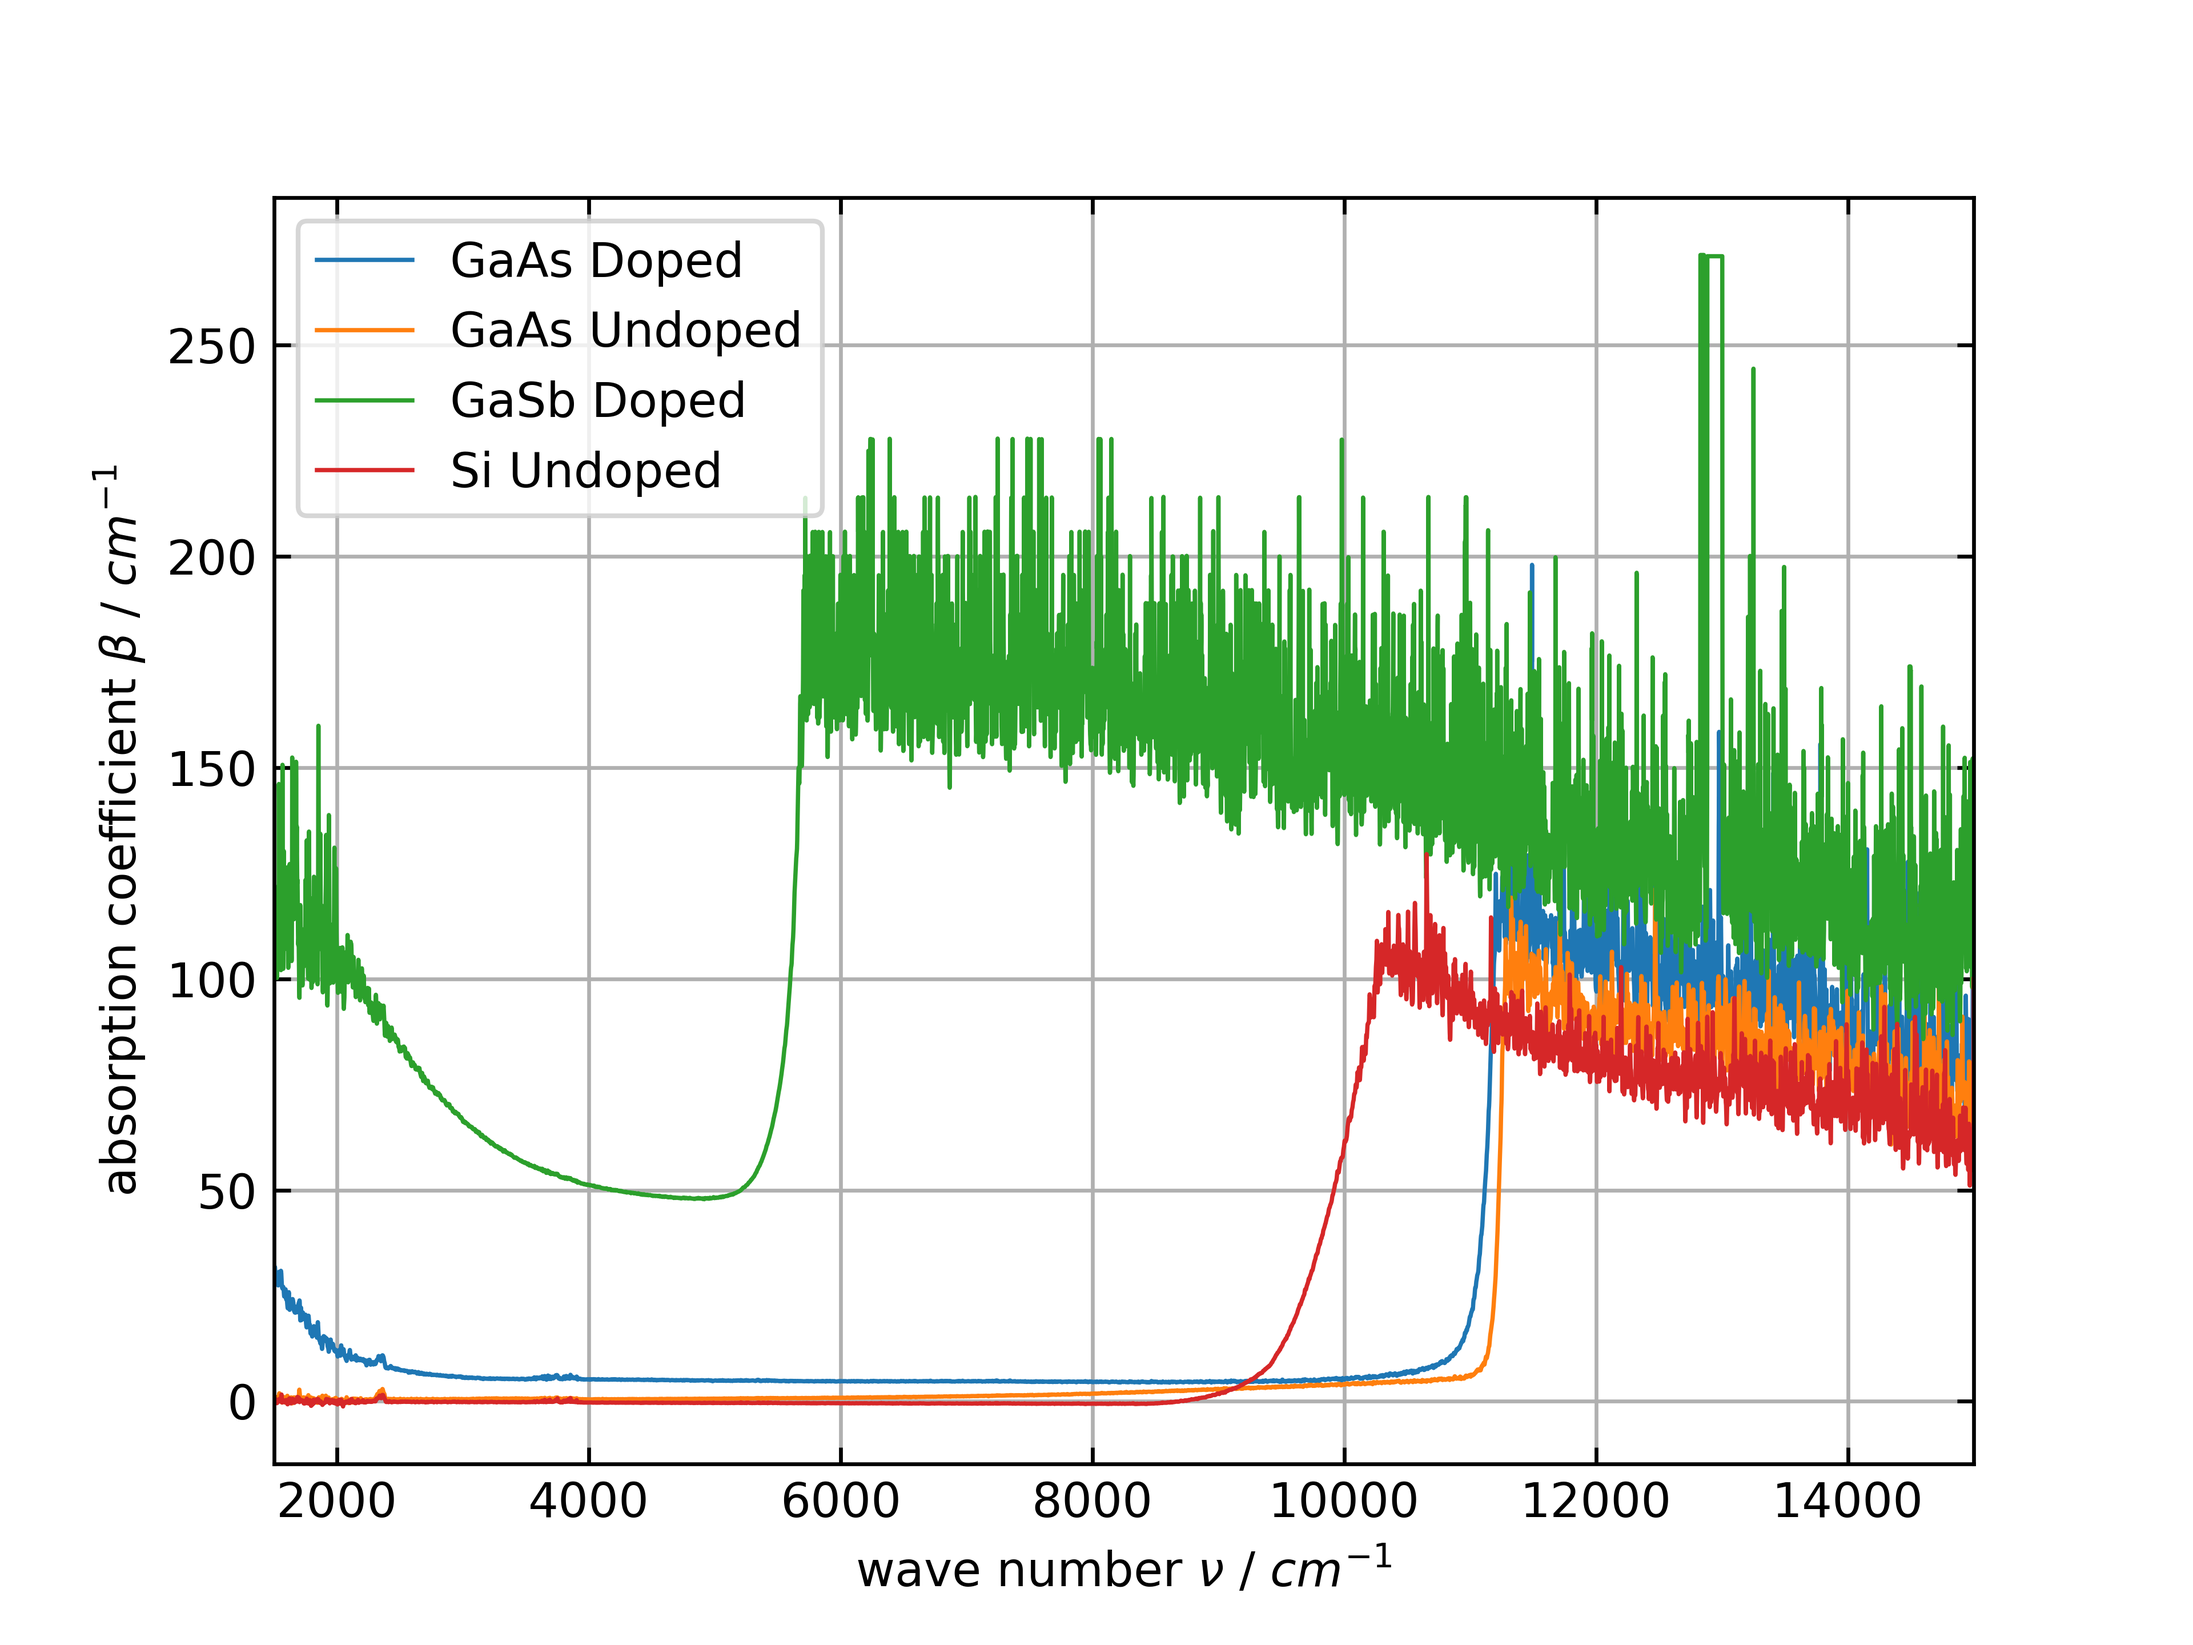
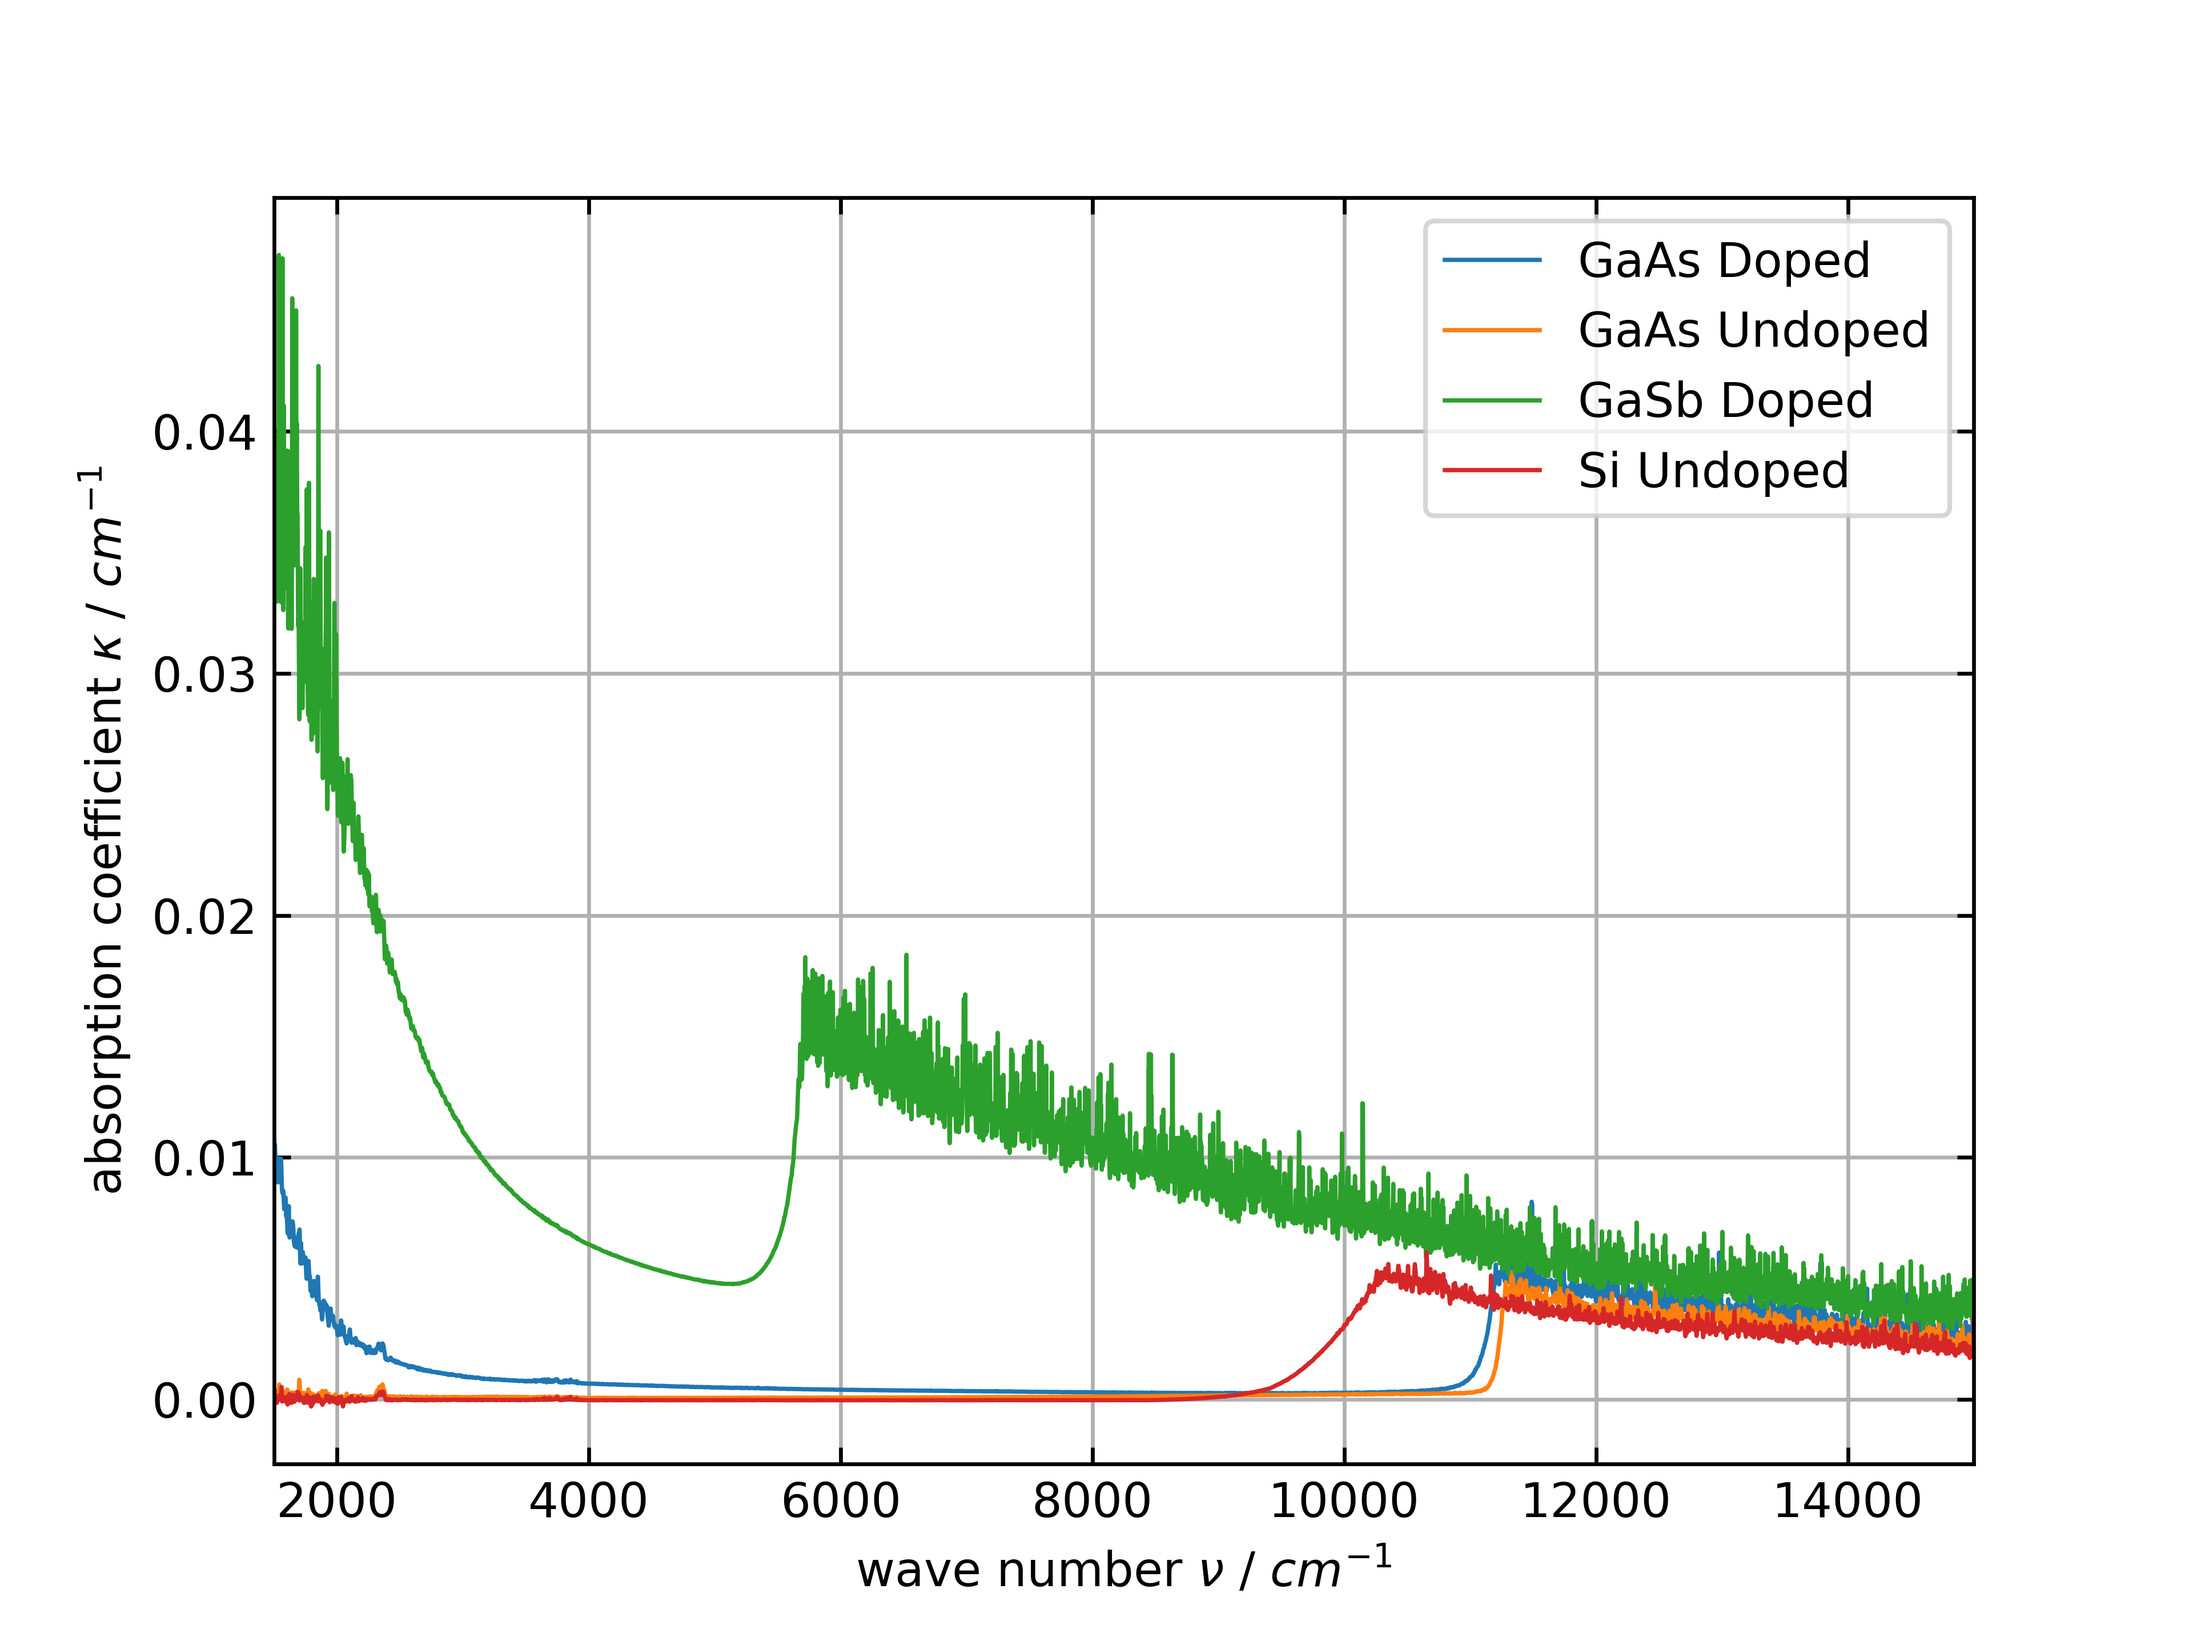
kappa plot gemacht

Changed region(s): [[0.0312, 0.125, 0.9062, 0.875], [0.5938, 0.25, 0.6562, 0.2812]]

diff --git a/SolidStateOptics/exp4.py b/SolidStateOptics/exp4.py
@@ -37,10 +37,11 @@ reflectionSiDo = read_dpt_file(r'.\SolidStateOptics\RawData\Reflection_ex4\refl_
 transmissionSiDo = read_dpt_file(r'.\SolidStateOptics\RawData\Transmission_ex4\Si_doped_res4_N50_normalized.DPT')
 
 samplesOhneSiUn = [
-        (reflectionGaAsDo, transmissionGaAsDo, "GaAs Doped", 440*10**-6),
-        (reflectionGaAsUnDo, transmissionGaAsUnDo, "GaAs Undoped", 470*10**-6),
+    (reflectionSiUnDo, transmissionSiUnDo, "Si Undoped", 530*10**-6),
         (reflectionGaSbDo, transmissionGaSbDo, "GaSb Doped", 500*10**-6),
-        (reflectionSiUnDo, transmissionSiUnDo, "Si Undoped", 530*10**-6)
+        (reflectionGaAsUnDo, transmissionGaAsUnDo, "GaAs Undoped", 470*10**-6),
+        (reflectionGaAsDo, transmissionGaAsDo, "GaAs Doped", 440*10**-6)
+        
     ]
 
 def T_fabry_perot(vars, T_fabry_perot_value, d):
@@ -112,6 +113,22 @@ def plot_the_betas(title="foo"):
 
     plt.xlabel(r'wave number $\nu$ / ' + r'$cm^{-1}$')
     plt.ylabel(r'absorption coefficient $\beta$ / ' + r'$cm^{-1}$')
+    plt.legend()
+    save_and_open(filename=title)
+    
+    
+def plot_the_kappas(title="foo", glättwert = 1):
+    plt.figure()
+    for reflection, transmission, label, d in samplesOhneSiUn:
+        kappa = []
+        for i in calculate_kappa(bügeln(reflection, glättwert), bügeln(transmission,glättwert), d):
+            kappa.append([i[0], i[1]])
+        plot_data(kappa, label=label)
+        plt.xlabel(r'wave number $\nu$ / ' + r'$cm^{-1}$')
+        plt.ylabel('kappa')
+
+    plt.xlabel(r'wave number $\nu$ / ' + r'$cm^{-1}$')
+    plt.ylabel(r'absorption coefficient $\kappa$ / ' + r'$cm^{-1}$')
     plt.legend()
     save_and_open(filename=title)
     
@@ -188,35 +205,17 @@ def linear_regression(komischeFunktion):
 
 
 
+# plot_the_kappas(glättwert=0.9, title="kappa")
 
-# kappa =[]
-# for i in calculate_kappa(reflectionGaAsDo, transmissionGaAsDo):
-#     kappa.append([i[0], i[1]])
-# plot_data(kappa)
-# plt.xlabel('wave number k / ' + r'$cm^{-1}$')
-# plt.ylabel('kappa')
-# save_and_open('foo')
+# plot_the_betas()
 
+# plot_the_ns(0.005)
 
+# plotKomischeFunktion(reflectionSiUnDo, transmissionSiUnDo, 9000, 11000, 10050, 10250, samplesOhneSiUn[0][3], glättwert=0.1, title="Si Undoped")
+# plotKomischeFunktion(reflectionGaSbDo, transmissionGaSbDo, 5000, 6000, 5600, 5680, samplesOhneSiUn[1][3], glättwert=0.1, title="GaSb Doped")
+# plotKomischeFunktion(reflectionGaAsUnDo, transmissionGaAsUnDo, 11000, 11400, 11230, 11280, samplesOhneSiUn[2][3], glättwert=0.1, title="GaAs Undoped")
+# plotKomischeFunktion(reflectionGaAsDo, transmissionGaAsDo, 10500, 12000, 11120, 11200, samplesOhneSiUn[3][3], glättwert=0.03, title="GaAs Doped")
 
-
-
-
-
-
-
-
-
-
-plotKomischeFunktion(reflectionGaAsDo, transmissionGaAsDo, 10500, 12000, 11120, 11200, samplesOhneSiUn[0][3], glättwert=0.03, title="GaAs Doped")
-plotKomischeFunktion(reflectionGaAsUnDo, transmissionGaAsUnDo, 11000, 11400, 11230, 11280, samplesOhneSiUn[1][3], glättwert=0.1, title="GaAs Undoped")
-plotKomischeFunktion(reflectionGaSbDo, transmissionGaSbDo, 5000, 6000, 5600, 5680, samplesOhneSiUn[2][3], glättwert=0.1, title="GaSb Doped")
-plotKomischeFunktion(reflectionSiUnDo, transmissionSiUnDo, 9000, 11000, 10050, 10250, samplesOhneSiUn[3][3], glättwert=0.1, title="Si Undoped")
-
-
-plot_the_ns(0.005)
-
-plot_the_betas()
 
 
 
